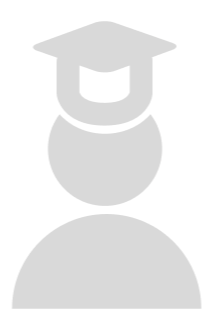
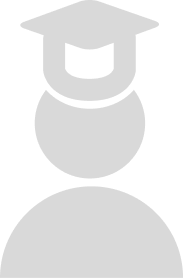
fix: 연구실 페이지 UI 수정

diff --git a/src/pages/Lab.module.css b/src/pages/Lab.module.css
@@ -10,8 +10,12 @@
 .hero {
   height: 526px;
   position: relative;
-  background: #c4ef9c;
-  padding: 100px 8% 40px;
+  background-image:
+    linear-gradient(rgba(0, 0, 0, 0.3), rgba(0, 0, 0, 0.3)),
+    url("../assets/lab-bg.png");
+  background-size: cover;
+  background-position: center;
+  background-repeat: no-repeat;
 }
 
 .labInfo {
@@ -23,13 +27,13 @@
 .labName {
   width: 312px;
   margin-bottom: 24px;
-  padding: 9px 15px;
-  border: 1px solid rgba(255, 255, 255, 0.6);
+  padding: 12px 20px;
+  background-color: rgb(217, 217, 217, 0.2);
   border-radius: 40px;
   color: white;
   font-size: 28px;
   font-weight: 700;
-  box-shadow: inset 0 10px 25px rgba(0, 0, 0, 0.04);
+  box-shadow: inset 0 10px 16px rgba(225, 225, 225, 0.4);
 }
 
 .labDescription {
@@ -113,10 +117,20 @@
 }
 
 .cardImage {
+  display: flex;
+  align-items: center;
+  justify-content: center;
+  overflow: hidden;
   width: 100%;
   height: 208px;
-  background: #c4ef9c;
+  background: rgb(69, 100, 250, 0.45);
   border-radius: 32px 32px 0 0;
+}
+
+.cardImage img {
+  object-fit: contain;
+  width: 70%;
+  height: 70%;
 }
 
 .cardText {
@@ -172,17 +186,18 @@
   display: flex;
   align-items: flex-end;
   padding: 0 20px 15px;
-  background: #c4ef9c;
+  background: rgb(69, 100, 250, 0.45);
 }
 
 .detailHeader span {
   width: 248px;
-  padding: 8px 15px;
-  border: 1px solid rgba(255, 255, 255, 0.5);
+  padding: 8px 24px;
   border-radius: 40px;
   color: white;
   font-size: 20px;
-  box-shadow: inset 0 10px 25px rgba(0, 0, 0, 0.04);
+  font-weight: 500;
+  background-color: rgb(217, 217, 217, 0.2);
+  box-shadow: inset 0 10px 16px rgba(225, 225, 225, 0.2);
 }
 
 .detailBody {
@@ -229,8 +244,18 @@
 }
 
 .smallCardImage {
+  display: flex;
+  align-items: center;
+  justify-content: center;
+  overflow: hidden;
   width: 100%;
   height: 200px;
-  background: #c4ef9c;
+  background: rgb(69, 100, 250, 0.45);
   border-radius: 32px 32px 0 0;
+}
+
+.smallCardImage img {
+  width: 70%;
+  height: 70%;
+  object-fit: contain;
 }

diff --git a/src/pages/Lab.jsx b/src/pages/Lab.jsx
@@ -2,6 +2,9 @@ import { useState } from "react";
 import { useNavigate } from "react-router-dom";
 import styles from "./Lab.module.css";
 import Header from "../components/Header";
+import bookImg from "../assets/book.png";
+import chatImg from "../assets/chat.png";
+import graduateImg from "../assets/graduate.png";
 
 function Lab() {
   const navigate = useNavigate();
@@ -18,16 +21,19 @@ function Lab() {
       id: "research",
       title: "연구 분야",
       description: "간단 설명",
+      image: bookImg,
     },
     {
       id: "project",
       title: "주요 연구 / 프로젝트",
       description: "간단 설명",
+      image: chatImg,
     },
     {
       id: "recruit",
       title: "모집 정보",
       description: "간단 설명",
+      image: graduateImg,
     },
   ];
 
@@ -64,7 +70,9 @@ function Lab() {
                 className={styles.card}
                 onClick={() => setMenu(card.id)}
               >
-                <div className={styles.cardImage} />
+                <div className={styles.cardImage}>
+                  <img src={card.image} />
+                </div>
                 <div className={styles.cardText}>
                   <h3>{card.title}</h3>
                   <p>{card.description}</p>
@@ -98,7 +106,9 @@ function Lab() {
                   className={styles.smallCard}
                   onClick={() => setMenu(card.id)}
                 >
-                  <div className={styles.smallCardImage} />
+                  <div className={styles.smallCardImage}>
+                    <img src={card.image} alt="" />
+                  </div>
                   <div className={styles.cardText}>
                     <h3>{card.title}</h3>
                     <p>{card.description}</p>

diff --git a/src/pages/Home.jsx b/src/pages/Home.jsx
@@ -15,6 +15,9 @@ import {
 import Header from "../components/Header";
 import styles from "./Home.module.css";
 import logoImg from "../assets/logo.png";
+import bookImg from "../assets/book-single.png";
+import fileImg from "../assets/filetext.png";
+import searchImg from "../assets/search.png";
 
 function Home() {
   const navigate = useNavigate();
@@ -123,9 +126,9 @@ function Home() {
                 strokeWidth={2}
               />
 
-              <BookOpen
+              <img
+                src={bookImg}
                 className={`${styles.cardIcon} ${styles.labIcon}`}
-                strokeWidth={1.5}
               />
 
               <div className={styles.shortcutText}>
@@ -147,9 +150,9 @@ function Home() {
                 strokeWidth={2}
               />
 
-              <FileText
+              <img
+                src={fileImg}
                 className={`${styles.cardIcon} ${styles.professorIcon}`}
-                strokeWidth={1.5}
               />
 
               <div className={styles.shortcutText}>
@@ -195,9 +198,9 @@ function Home() {
                 strokeWidth={2}
               />
 
-              <Search
+              <img
+                src={searchImg}
                 className={`${styles.cardIcon} ${styles.lectureIcon}`}
-                strokeWidth={3}
               />
 
               <div className={styles.shortcutText}>

diff --git a/src/pages/Home.module.css b/src/pages/Home.module.css
@@ -133,26 +133,24 @@
 }
 
 .labIcon {
-  width: 184px;
-  height: 232px;
-  bottom: 48px;
+  width: 70%;
+  height: auto;
+  bottom: 100px;
   left: 20px;
 }
 
 .professorIcon {
-  width: 200px;
-  height: 232px;
-  bottom: 32px;
-  left: 24px;
-  color: rgba(25, 52, 153, 0.6);
+  width: 60%;
+  height: auto;
+  bottom: 50px;
+  left: 50px;
 }
 
 .lectureIcon {
-  width: 200px;
-  height: 200px;
-  top: 40px;
+  width: 75%;
+  height: auto;
+  top: 44px;
   left: 16px;
-  color: rgba(255, 255, 255, 0.3);
 }
 
 .gradeIcon {

diff --git a/src/pages/auth/FindPw.module.css b/src/pages/auth/FindPw.module.css
@@ -1,6 +1,5 @@
 .page {
   width: 100%;
-  min-height: 100vh;
   display: flex;
   flex-direction: column;
   background: #ffffff;
@@ -19,7 +18,7 @@
   display: flex;
   flex-direction: column;
   align-items: center;
-  margin: 160px 0 240px;
+  margin: 120px 0 112px;
 }
 
 .guideText {
